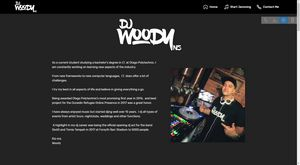
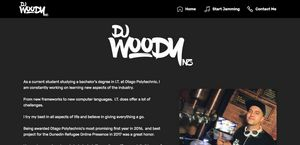
updating for live site

diff --git a/start.html b/start.html
@@ -42,7 +42,7 @@
         <div class="menu-logo">
             <div class="navbar-brand">
                 <span class="navbar-logo">
-                    <a href="http://mariadb.ict.op.ac.nz/~se19s2_06/op-stats-raidarea51/public/">
+                    <a href="https://woodjj1.github.io/DJWOODYNZ/index.html">
                          <img src="assets/images/dj-woody-logo-white-official-122x59.png" alt="Mobirise" title="" style="height: 3.8rem;">
                     </a>
                 </span>
@@ -63,7 +63,7 @@
     </nav>
 </section>
 
-<section class="engine"><a href="https://mobirise.info/a">online web builder</a></section><section class="cid-rQE1cPBf0L" id="image3-e">
+<section class="engine"><a href="https://mobirise.info/z">best css templates</a></section><section class="cid-rQE1cPBf0L" id="image3-e">
 
     
 
@@ -92,7 +92,7 @@
                 
                 <div class="mbr-section-text mbr-white pb-3 ">
                     <p class="mbr-text mbr-fonts-style display-5">
-                        As part of my I.T. degree I had to develop a tutorial site. &nbsp;<br><br>I created one that teaches everyone of all ages to start somewhere with digital djing. <br><br>Serato DJ Pro software is the main program of choice.<br><br>Click on the link below to jump straight into tutorials.</p>
+                        As part of my I.T. degree I had to develop a tutorial site. &nbsp;<br><br>I created one that teaches everyone of all ages a place to start with digital djing. <br><br>Serato DJ Pro software is the main program of choice and also NZ made.<br><br>Click on the link below to jump straight into tutorials.</p>
                 </div>
                 <div class="mbr-section-btn"><a class="btn btn-md btn-white-outline display-4" href="https://woodjj1.github.io/FlexibleIT/index.html" target="_blank">LETS GO</a></div>
             </div>

diff --git a/index.html b/index.html
@@ -44,7 +44,7 @@ Dunedin DJ">
         <div class="menu-logo">
             <div class="navbar-brand">
                 <span class="navbar-logo">
-                    <a href="http://mariadb.ict.op.ac.nz/~se19s2_06/op-stats-raidarea51/public/">
+                    <a href="https://woodjj1.github.io/DJWOODYNZ/index.html">
                          <img src="assets/images/dj-woody-logo-white-official-122x59.png" alt="Mobirise" title="" style="height: 3.8rem;">
                     </a>
                 </span>
@@ -65,7 +65,7 @@ Dunedin DJ">
     </nav>
 </section>
 
-<section class="engine"><a href="https://mobirise.info">Mobirise</a></section><section class="cid-rQDZy62JHi" id="image3-2">
+<section class="engine"><a href="https://mobirise.info/f">simple site maker</a></section><section class="cid-rQDZy62JHi" id="image3-2">
 
     
 

diff --git a/contact.html b/contact.html
@@ -42,7 +42,7 @@
         <div class="menu-logo">
             <div class="navbar-brand">
                 <span class="navbar-logo">
-                    <a href="http://mariadb.ict.op.ac.nz/~se19s2_06/op-stats-raidarea51/public/">
+                    <a href="https://woodjj1.github.io/DJWOODYNZ/index.html">
                          <img src="assets/images/dj-woody-logo-white-official-122x59.png" alt="Mobirise" title="" style="height: 3.8rem;">
                     </a>
                 </span>
@@ -63,7 +63,7 @@
     </nav>
 </section>
 
-<section class="engine"><a href="https://mobirise.info/a">online web builder</a></section><section class="cid-rQE1nsaFEa" id="image3-h">
+<section class="engine"><a href="https://mobirise.info/f">simple site creator</a></section><section class="cid-rQE1nsaFEa" id="image3-h">
 
     
 
